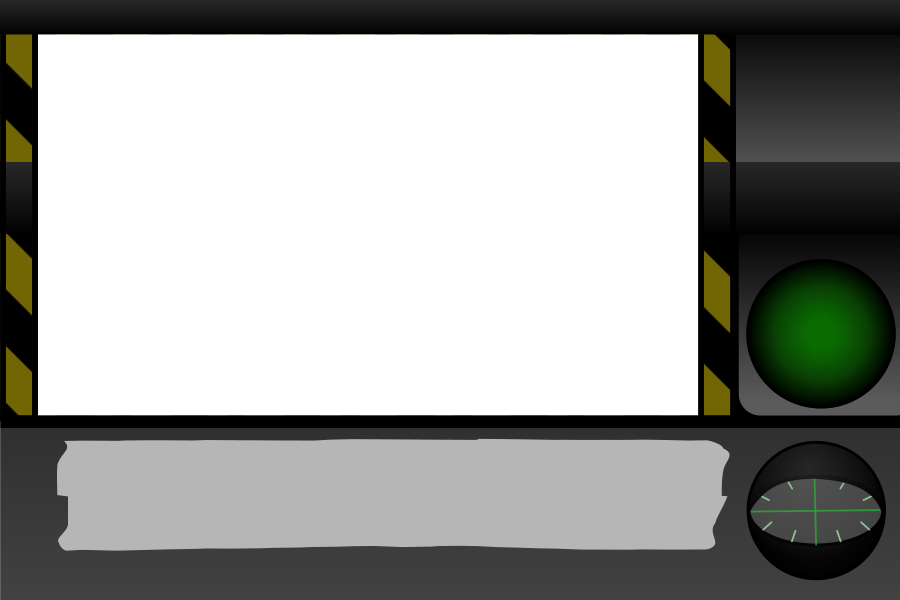
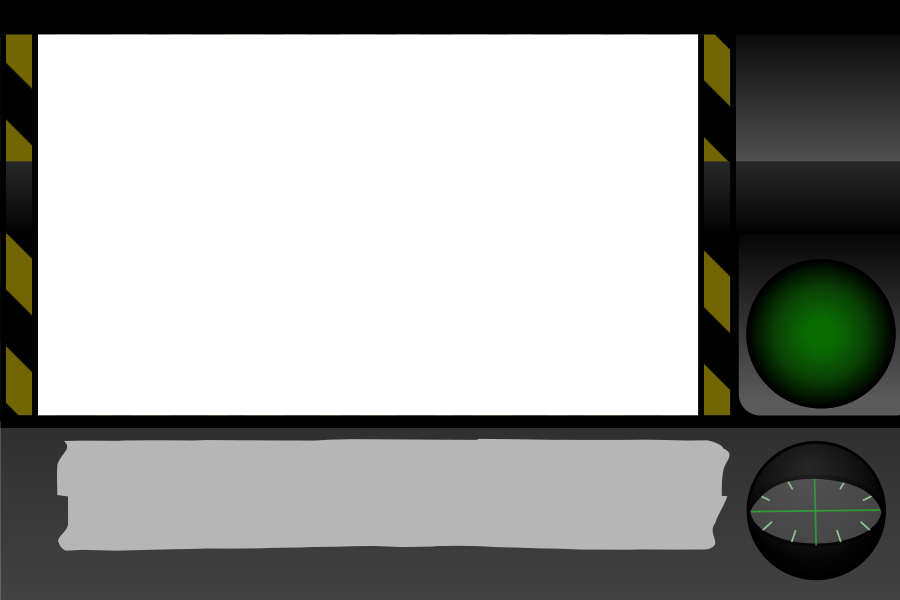
end of day

Changed region(s): [[0.0, 0.0, 1.0, 0.03]]

diff --git a/main.py b/main.py
@@ -1737,21 +1737,21 @@ class Game:
         title_rect = title.get_rect(center=(WIN_WIDTH/2, 50))
 
         rockets_text = self.font.render('Movement:-', True, BLACK)
-        rockets_text_rect = rockets_text.get_rect(x=100, y=100)
-        rockets_text_2 = self.font.render('Use W,A,S,D or arrow keys to move.', True, BLACK)
-        rockets_text_2_rect = rockets_text_2.get_rect(x=100, y=131)
+        rockets_text_rect = rockets_text.get_rect(x=50, y=100)
+        rockets_text_2 = self.font_mid.render('Use W,A,S,D, \'left stick\' or arrow keys to move.', True, BLACK)
+        rockets_text_2_rect = rockets_text_2.get_rect(x=50, y=131)
 
         atgm_text = self.font.render('Flares:-', True, BLACK)
-        atgm_text_rect = atgm_text.get_rect(x=100, y=225)
-        atgm_text_2 = self.font.render(' \'F\' for flares, to counter SAM threats.', True, BLACK)
-        atgm_text_2_rect = atgm_text_2.get_rect(x=100, y=256)
+        atgm_text_rect = atgm_text.get_rect(x=50, y=225)
+        atgm_text_2 = self.font_mid.render('controller \'Y\' of key \'F\' for flares, to counter SAM threats.', True, BLACK)
+        atgm_text_2_rect = atgm_text_2.get_rect(x=50, y=256)
 
         aam_text = self.font.render('Weapons:-', True, BLACK)
-        aam_text_rect = aam_text.get_rect(x=100, y=350)
-        aam_text_2 = self.font.render('\'SPACE\' - Cannon, \'H\' - Unguided Rockets, \'G\' - Guided Missile', True, BLACK)
-        aam_text_2_rect = aam_text_2.get_rect(x=100, y=381)
+        aam_text_rect = aam_text.get_rect(x=50, y=350)
+        aam_text_2 = self.font_mid.render('\'SPACE\' or controller \'A\' - Cannon, \'H\' or controller \'B\' - Unguided Rockets, \'G\' or controller \'X\' - Guided Missile', True, BLACK)
+        aam_text_2_rect = aam_text_2.get_rect(x=50, y=381)
 
-        exit_txt = self.font.render('Press B to exit.', True, BLACK)
+        exit_txt = self.font_mid.render('Press B to exit.', True, BLACK)
         exit_txt_rect = exit_txt.get_rect(x=WIN_WIDTH-200, y=WIN_HEIGHT-50)
 
         while controls_menu:
